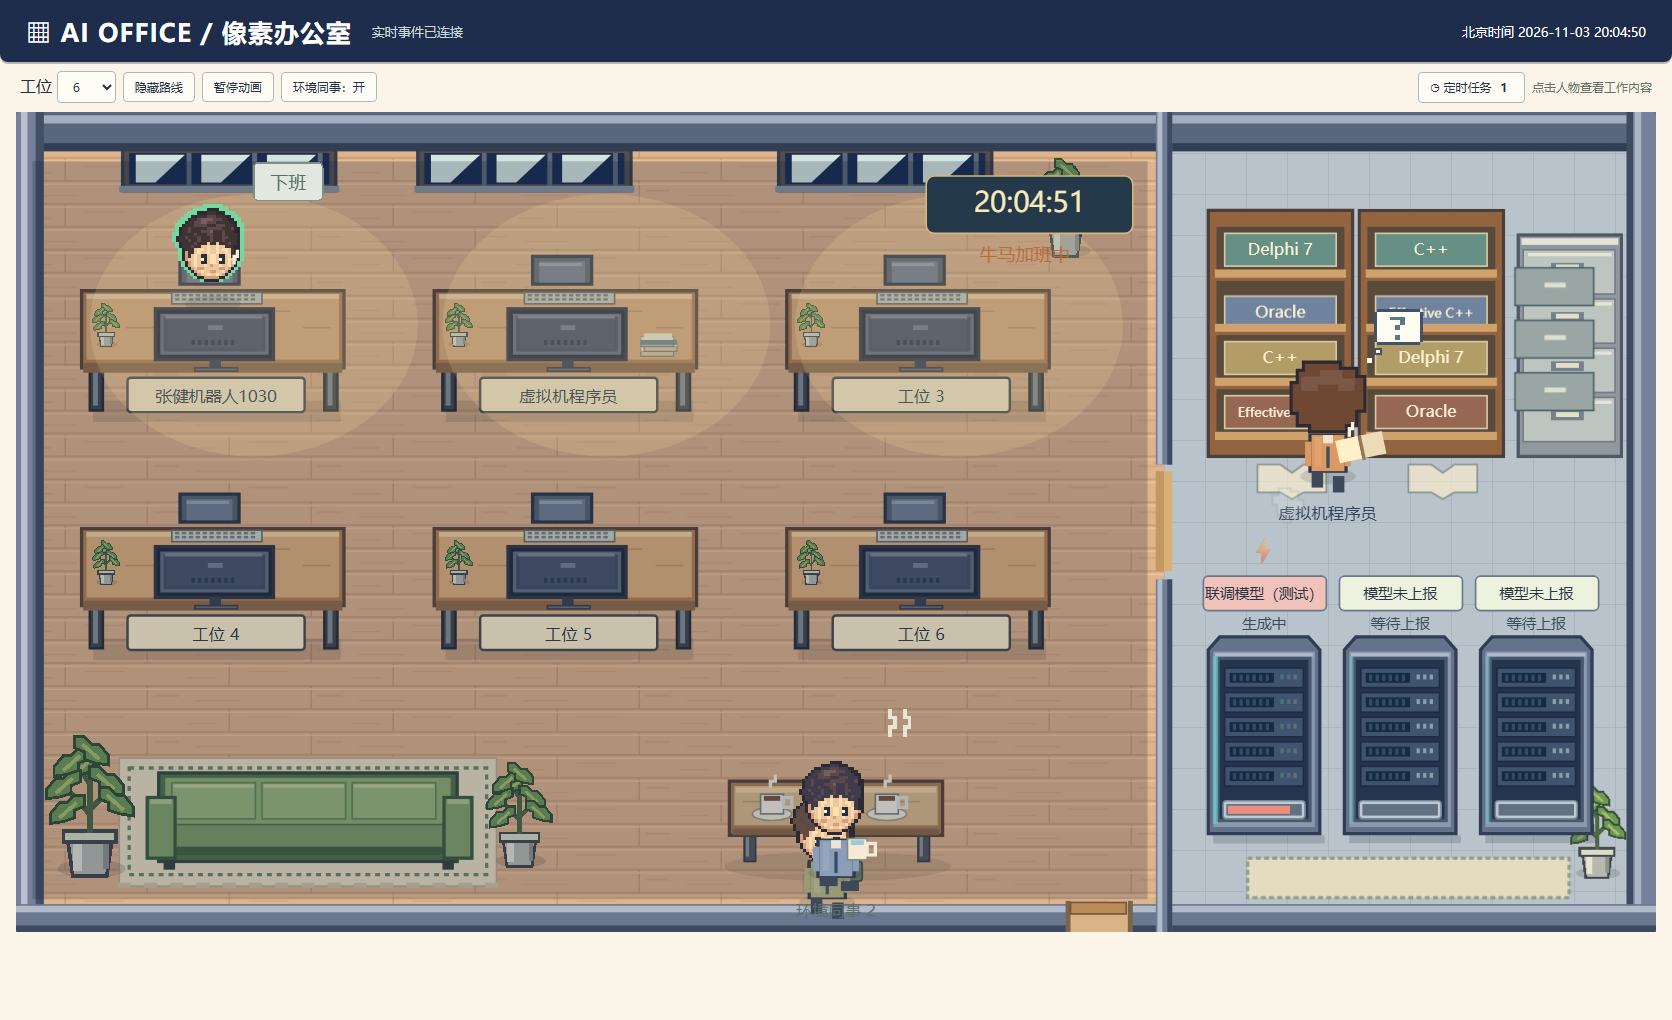
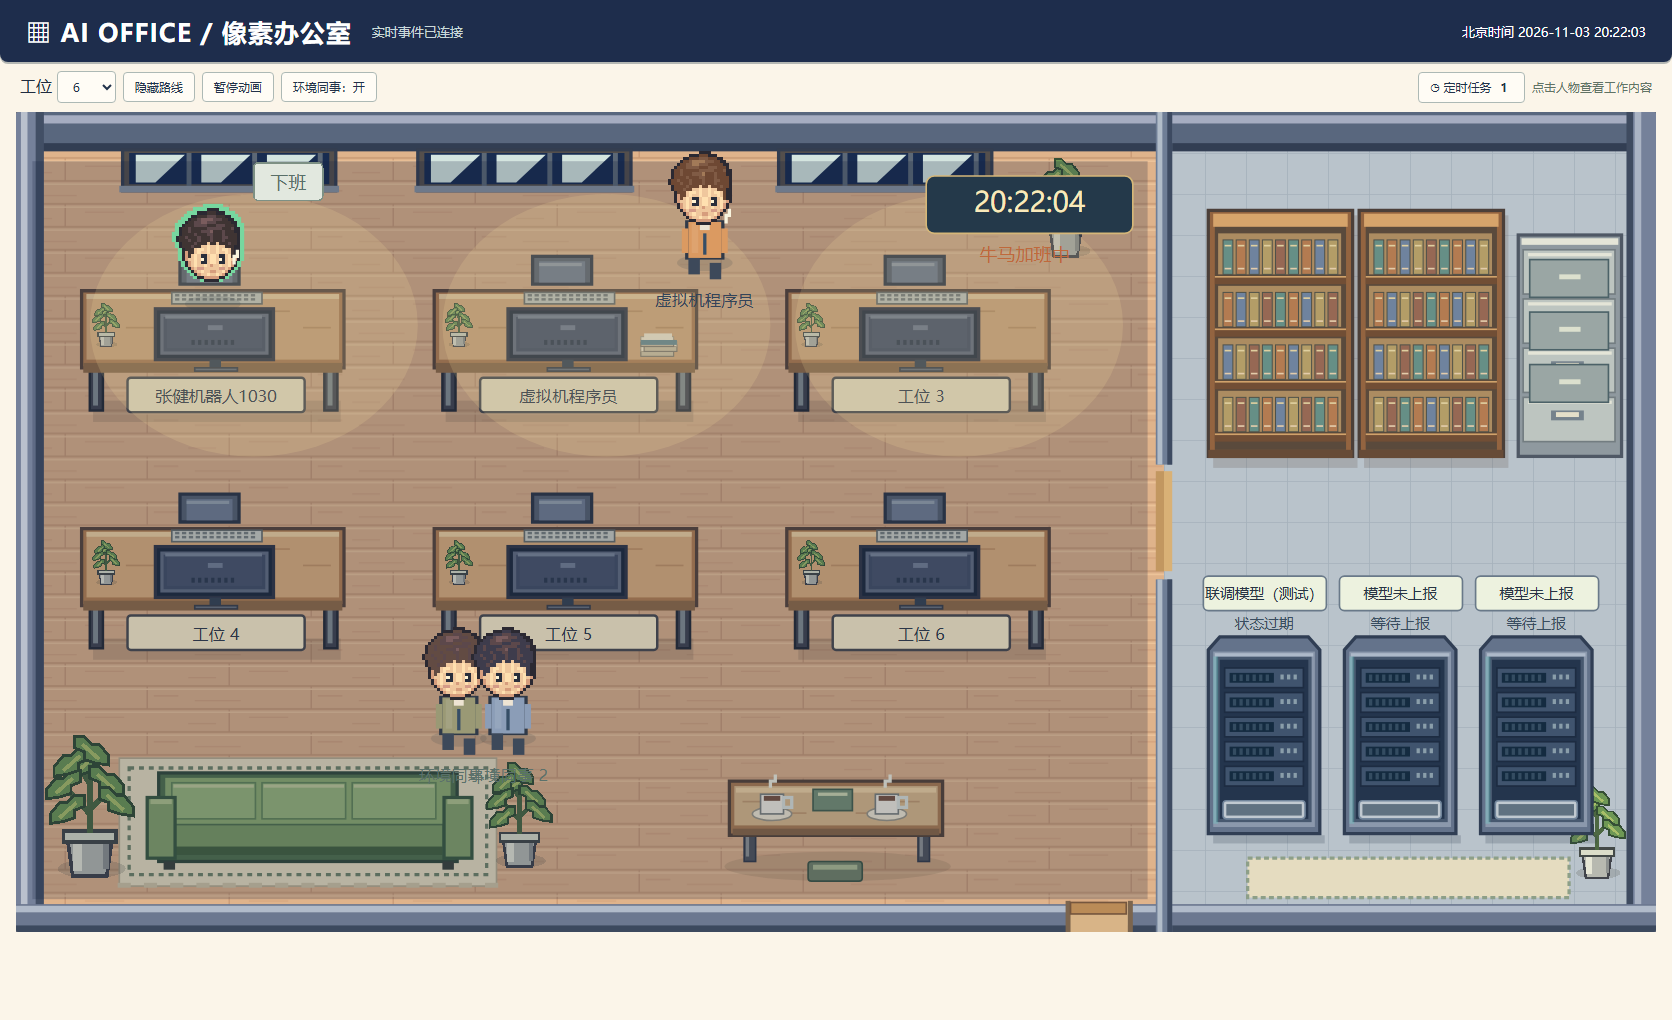
Restore previous bookshelf appearance

diff --git a/frontend/town.html b/frontend/town.html
@@ -21,8 +21,8 @@ aside#inspector{width:min(430px,calc(100vw - 24px))}#inspector .person-summary{d
 .discussing .head{animation:conversation-nod .9s steps(2) infinite}@keyframes conversation-nod{50%{transform:translateY(2px)}}@media(prefers-reduced-motion:reduce){.discussing .head{animation:none!important}}
 .boss-role .name-label{fill:#725b44}.fighting .combat-arm{animation:boss-punch .25s steps(2) infinite}.boss-role.fighting .combat-arm{animation-delay:.12s}.combat-hit .head,.combat-hit .body{animation:boss-hit .13s steps(2)}.hit-effect{pointer-events:none}.health-bar{pointer-events:none}.combat-shake{animation:boss-camera .08s steps(2) infinite}.damage-number{font-weight:bold}@keyframes boss-punch{50%{transform:translateX(9px)}}@keyframes boss-hit{50%{transform:translateX(-5px)}}@keyframes boss-camera{50%{transform:translateX(2px)}}@media(prefers-reduced-motion:reduce){.combat-shake,.fighting .combat-arm,.combat-hit .head,.combat-hit .body{animation:none!important}}
 
-#resource-door,#entrance-door{transition:transform .35s ease}.rack-strip{animation:rack-pulse 1.2s steps(3) infinite}.rack-offline{animation:none;opacity:.25}.rack-error{animation-duration:.3s}.library-active .pull-book{animation:pull-book 1.6s steps(4) infinite}.library-active .archive-drawer{animation:drawer-open 2s steps(5) infinite}.page-copy{opacity:0}.library-active .page-copy{opacity:1;animation:rack-pulse .6s steps(2) infinite}.overtime-fire{animation:fire-rise .4s steps(2) infinite}
-@keyframes rack-pulse{50%{opacity:.25}}@keyframes pull-book{50%{transform:translate(0,7px)}}@keyframes drawer-open{50%{transform:translate(-9px,5px)}}@keyframes fire-rise{50%{transform:translateY(-3px) scale(1.06)}}
+#resource-door,#entrance-door{transition:transform .35s ease}.rack-strip{animation:rack-pulse 1.2s steps(3) infinite}.rack-offline{animation:none;opacity:.25}.rack-error{animation-duration:.3s}.library-active .archive-drawer{animation:drawer-open 2s steps(5) infinite}.overtime-fire{animation:fire-rise .4s steps(2) infinite}
+@keyframes rack-pulse{50%{opacity:.25}}@keyframes drawer-open{50%{transform:translate(-9px,5px)}}@keyframes fire-rise{50%{transform:translateY(-3px) scale(1.06)}}
 </style>
 <header><h1>▦ AI OFFICE / 像素办公室</h1><span id="connection">正在连接实时事件…</span><time id="clock"></time></header>
 <nav><button id="live" class="active" hidden>实时模式</button><button id="demo" hidden>演示模式</button><label>工位 <select id="desks"><option>6</option><option>9</option><option>12</option><option>18</option></select></label><button id="add" hidden>＋ 添加演示角色</button><button id="paths" aria-pressed="true">隐藏路线</button><button id="pause" aria-pressed="false">暂停动画</button><button id="ambientToggle" aria-pressed="true">环境同事：开</button><button id="scheduleToggle" aria-expanded="false" aria-controls="schedulePanel">◷ 定时任务 <span id="scheduleCount">0</span></button><span id="notice" role="status" style="font-size:12px;color:#617365">点击人物查看工作内容</span></nav>
@@ -185,8 +185,7 @@ function desk(p,x,y,index){
  const papers=svg('g',{id:'desk-papers-'+index,'class':'paper-stack'},g);svg('title',{},papers).textContent='暂无待处理资料';plant(g,15,56,.36,false);
  rect(g,28,82,108,21,'#fff1cb',{stroke:'#4c4c4f','stroke-width':1.5,rx:2});const name=text(g,82,97,'工位 '+(index+1),10,'#333d4b');name.setAttribute('id','desk-label-'+index);
 }
-const classicBooks=[['Delphi 7','Mastering Delphi 7 · Marco Cantù'],['C++','The C++ Programming Language · Bjarne Stroustrup'],['Oracle','Expert Oracle Database Architecture · Thomas Kyte / Darl Kuhn'],['Effective C++','Effective C++ · Scott Meyers']];
-function bookshelf(p,x,y){const g=svg('g',{transform:`translate(${x} ${y})`,class:'library-shelf'},p);rect(g,0,0,88,150,'#936440',{stroke:'#4b3f39','stroke-width':2});const titles=classicBooks.slice().sort(()=>Math.random()-.5);for(let r=0;r<4;r++){rect(g,5,10+r*33,78,27,'#5a4a3c');const book=titles[r];const b=svg('g',{class:r===1?'pull-book':''},g);rect(b,10,14+r*33,68,20,['#668f86','#6f839e','#b39d67','#966854'][r],{stroke:'#d5caa4'});text(b,44,27+r*33,book[0],book[0].length>9?8:10,'#fff4d2');svg('title',{},b).textContent=book[1];rect(g,4,36+r*33,80,5,'#d0a26b');}const pages=svg('g',{class:'page-copy'},g);path(pages,'M30 155h14l7 5 7-5h14v17H58l-7 4-7-4H30Z','#fff1cd','#6b796b',1);block(x,y,88,150)}
+function bookshelf(p,x,y){const g=svg('g',{transform:`translate(${x} ${y})`},p);rect(g,3,3,88,154,'#5b483c',{opacity:.2});rect(g,0,0,88,150,'#936440',{stroke:'#4b3f39','stroke-width':2});rect(g,4,4,80,142,'#5a4a3c');rect(g,3,2,82,8,'#d6a46b');for(let r=0;r<4;r++){rect(g,6,14+r*32,75,25,'#ac8c61');for(let k=0;k<9;k++){const bx=9+k*8;rect(g,bx,18+r*32,6,21,['#668f86','#b37b51','#6f839e','#b39d67','#966854'][(k+r)%5],{stroke:'#4e5149','stroke-width':.6});rect(g,bx+1,21+r*32,4,1,'#dfcf9f');rect(g,bx+1,35+r*32,4,1,'#e2cbaa')}rect(g,4,40+r*32,80,5,'#714e35');rect(g,4,40+r*32,80,1,'#d0a26b')}rect(g,0,146,88,5,'#674b37');block(x,y,88,150)}
 function sofa(p,x,y){const g=svg('g',{transform:`translate(${x} ${y})`},p);rect(g,-7,4,230,78,'#e9dfc0',{stroke:'#b9ae90','stroke-width':1});rect(g,-1,10,218,65,'none',{stroke:'#728568','stroke-width':2,'stroke-dasharray':'3 3'});for(let k=0;k<15;k++)rect(g,-8+k*16,80,8,3,'#d1c5a4');rect(g,17,13,182,54,'#52734d',{stroke:'#344c3b','stroke-width':2});rect(g,21,16,174,28,'#8fae71');for(let k=0;k<3;k++){rect(g,25+k*55,19,51,22,'#9ab77b',{stroke:'#658759'});rect(g,26+k*55,20,49,2,'#c1cc99')}rect(g,24,45,166,13,'#7e9c65');rect(g,24,58,166,5,'#45643f');rect(g,10,28,17,37,'#86a36b',{stroke:'#3d5b40','stroke-width':2});rect(g,191,28,17,37,'#86a36b',{stroke:'#3d5b40','stroke-width':2});rect(g,12,29,13,3,'#b1c38c');rect(g,193,29,13,3,'#b1c38c');rect(g,20,67,7,5,'#3d443d');rect(g,190,67,7,5,'#3d443d');block(x+9,y+12,200,60)}
 function coffeeTable(p){const x=435,y=height-92,g=svg('g',{'class':'coffee-table','aria-label':'咖啡桌',transform:`translate(${x} ${y})`},p);
  svg('ellipse',{cx:66,cy:52,rx:69,ry:9,fill:'#6c5541',opacity:.16},g);
@@ -396,7 +395,7 @@ function updateWorld(now=Date.now()){if(now-lastModelRefresh>5000){lastModelRefr
  if(night&&wasNight===false)nextBossPatrolAt=Math.min(nextBossPatrolAt,now+15*60*1000);wasNight=night;
  for(const a of agents){a.offDuty=night&&['idle','done','archived'].includes(a.state)&&!a.behavior&&!a.patrolHold&&!(a.overtimeUntil>now)&&!a.paperTasks?.size;}
  const people=visibleActors();const open=people.some(a=>Math.abs(a.x-700)<68&&Math.abs(a.y-250)<65);$('resource-door').setAttribute('transform',open?'translate(0 -70)':'translate(0 0)');const entranceOpen=people.some(a=>Math.abs(a.x-660)<45&&a.y>height-65);$('entrance-door').setAttribute('transform',entranceOpen?'translate(-32 0)':'translate(0 0)');
- const reading=actors().some(a=>a.destination==='library'&&!a.path.length&&!a.offDuty);document.querySelectorAll('.library-shelf').forEach(e=>e.classList.toggle('library-active',reading));$('archive-effects').setAttribute('class',reading?'library-active':'');
+ const reading=actors().some(a=>a.destination==='library'&&!a.path.length&&!a.offDuty);$('archive-effects').setAttribute('class',reading?'library-active':'');
 }
 function frame(t){if(t-lastWorldTick>200){lastWorldTick=t;updateWorld();}const dt=lastTime?Math.min((t-lastTime)/1000,.05):0;lastTime=t;if(!paused){syncAmbient(t);tickBossPatrol(dt);for(const a of actors()){if(a.patrolHold||a.offDuty)continue;if(advanceVisualAction(a,dt))continue;if(a.path.length){const p=a.path[0],dx=p.x-a.x,dy=p.y-a.y,d=Math.hypot(dx,dy),step=70*dt;if(d<=step){a.x=p.x;a.y=p.y;a.path.shift();if(!a.path.length){if(a.destination==='desk'){Object.assign(a,seats[a.behavior?.slot??a.seat])}if(a.destination==='sofa'){a.x=165;a.y=height-60;a.restActivity=a.requestedRest|| (Math.random()<.65?'gaming':'resting');a.requestedRest=null;}if(a.destination==='coffee'){a.x=500;a.y=height-38;a.restActivity='coffee';}a.wait=0;if(a.id===selected)details()}}else{a.x+=dx/d*step;a.y+=dy/d*step}}else if(a.state==='idle'&&!a.behavior){a.wait+=dt;if(a.wait>(['sofa','coffee','library'].includes(a.destination)?24:12))destination(a,a.ambient?ambientAction(a):chooseRest(a))}else if(mode==='demo'&&a.state==='researching'){a.wait+=dt;if(a.wait>15){a.state='writing';a.step='查阅完成，返回工位整理';destination(a,'desk')}}}renderAgents();if(reducedMotion)document.querySelectorAll('#map *').forEach(e=>e.style.animation='none')}requestAnimationFrame(frame)}
 let demoLogStep=0;setInterval(()=>{if(mode!=='demo'||paused)return;const a=agents.find(a=>['writing','executing'].includes(a.state));if(!a)return;const delta=[2,1,-1,-3][demoLogStep++%4];const summary=delta>0?'模拟日志：收到新资料':'模拟日志：资料处理归档';paperEvent(a,{type:'document',documents_delta:delta,summary});window.OfficeLogs.append(a,{type:'log',summary,ts:new Date().toISOString()});details();},3500);

diff --git a/docs/MODEL_WORLD_INTEGRATION.md b/docs/MODEL_WORLD_INTEGRATION.md
@@ -52,18 +52,13 @@
 - 采集器重启从持久事件恢复，每个会话保存最新值，最多保留 100 个会话；页面重连先读快照，之后接增量事件。
 - 模型名称、会话 ID 也是业务信息，公开部署继续遵守现有入口访问控制；禁止在这些字段中放地址、凭据或用户原文。
 
-## 2. 门、资料与经典书名
+## 2. 门与资料区
 
-角色与环境同事停在资料区查阅时，书本抽出、翻录指示及档案抽屉播放动画；最后一个查阅角色离开后恢复。当前是资料区联动动画，不代表后端真的读取了对应书籍或文件。去查资料的视觉指令和真实 researching 状态均可触发，沿用原有避障路线。
+书架已按反馈还原为上一版：四层木质书架、密排彩色竖放书本，取消大块书名标签、抽书和书架下方翻录图案。书架尺寸和寻路障碍保持原样。
+
+角色与环境同事停在资料区查阅时，保留人物翻阅与档案柜抽屉动画；最后一个查阅角色离开后抽屉恢复。去查资料的视觉指令和真实 researching 状态均可触发，沿用原有避障路线。
 
 办公室门和资料区门检测附近所有角色（包括环境员工与老板），接近自动打开，离开关闭。门动画不修改寻路网格，以免路径中途失效。
-
-每次重建书架时随机排列书名，每架包含以下四种，不在每帧随机变化。采用短标题和 8–10 SVG 单位字号，悬停显示全名与作者，只画原创书本外形，没有复制书籍封面或正文。核实来源：
-
-- [Mastering Delphi 7 / Marco Cantù](https://www.marcocantu.com/md7/default.htm)
-- [The C++ Programming Language / Bjarne Stroustrup](https://www.stroustrup.com/books.html)
-- [Effective C++ / Scott Meyers，出版社页面](https://www.informit.com/store/effective-c-plus-plus-55-specific-ways-to-improve-your-9780321334879)
-- [Expert Oracle Database Architecture / Thomas Kyte、Darl Kuhn，出版社资料](https://github.com/Apress/exp-oracle-db-architecture)
 
 ## 3. 北京时间与夜间行为
 

diff --git a/README.md b/README.md
@@ -172,6 +172,6 @@ node --test tests/*.test.js
 
 ### 模型机柜与昼夜办公室
 
-机柜可显示执行会话实际上报的模型名称、思考/生成/闲置/异常状态和动态灯带；资料区增加书本翻录与抽屉动画，门随角色接近开关。地图右上角使用北京时间实时时钟，20:00–08:00 切换夜景、下班和加班怒火，老板夜间巡视更频繁。
+机柜可显示执行会话实际上报的模型名称、思考/生成/闲置/异常状态和动态灯带；资料区保留原版密排书架、人物翻阅与档案柜抽屉动画，门随角色接近开关。地图右上角使用北京时间实时时钟，20:00–08:00 切换夜景、下班和加班怒火，老板夜间巡视更频繁。
 
 **部署端需要给 dsh 接上模型遥测回调**，未上报时显示未知，不推测模型。详见 [模型及昼夜接入文档](docs/MODEL_WORLD_INTEGRATION.md)。

diff --git a/CHANGELOG.md b/CHANGELOG.md
@@ -176,3 +176,7 @@
 - 增加门自动开关、地图北京时间时钟、夜景暖灯、“牛马加班中”、下班外观和新任务怒火。
 - 夜间老板巡视缩短到十五分钟，增加随机卡通互动，保留寻路与业务状态隔离。
 - 补充模型与昼夜接入文档及针对会话恢复、时间边界、门复位、新任务唤醒的检查。
+
+## 书架外观回退
+
+按反馈恢复上一版四层木质书架和彩色竖放书本，移除新版大块书名与书架翻录图案；保留档案柜动画、模型机柜、时钟和夜间行为。
